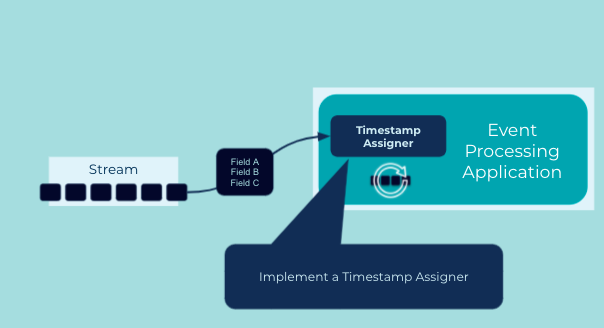
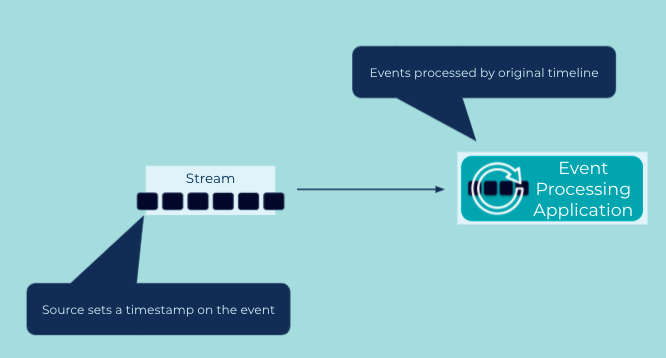
updates from review comments, updated illustration

diff --git a/docs/stream-processing/event-time-processing.md b/docs/stream-processing/event-time-processing.md
@@ -21,18 +21,35 @@ How do we implement event-time based processing of events?
 
 ![event-time-processing](../img/event-time-processing.png)
 
-For event-time processing, the [Event Source](../event-source/event-source.md) must include a timestamp in the event (e.g., in a data field or header metadata) that denotes the time at which the event was created by the source. Then, on the consuming side in an [Event Processing Application](../event-processing/event-processing-application.md), we need to implement a [Timestamp Assigner](timestamp-assigner.md) that will extract this timestamp from the event, which allows the application process events based on their original timeline.
+For event-time processing, the [Event Source](../event-source/event-source.md) must include a timestamp in the event (e.g., in a data field or header metadata) that denotes the time at which the event was created by the source. Then, on the consuming side in an [Event Processing Application](../event-processing/event-processing-application.md), we need to extract this timestamp from the event, which allows the application process events based on their original timeline.
 
 ## Implementation
+
+#### ksqlDB
 
 In the streaming database ksqlDB, every event/record has a system-column named `ROWTIME` representing the timestamp for the event, which defaults to the time at which the event was originally created by its [Event Source](../event-source/event-source.md). For example, when we create a ksqlDB `STREAM` or `TABLE` from an existing Kafka topic, then the timestamp embedded in a Kafka message is extracted and assigned to the event in ksqlDB. (cf. [CreateTime of a Kafka `ProducerRecord`](https://kafka.apache.org/28/javadoc/org/apache/kafka/clients/producer/ProducerRecord.html) and the [Kafka message format](http://kafka.apache.org/protocol.html)).
 
 Sometimes, this default behavior of ksqlDB is not what we want. Maybe the events have a custom data field containing their actual timestamps (e.g., some legacy data that has been around for a while was ingested into Kafka only recently, so we can't trust the `CreateTime` information in the Kafka messages because they are much newer than the original timestamps). To use a timestamp in the event payload itself, we can add a `WITH(TIMESTAMP='some-field')` clause when creating a stream or table, which instructs ksqlDB to then get the timestamp from the specified field in the record:
 
-```
+```sql
 CREATE STREAM my_event_stream
     WITH (kafka_topic='events',
           timestamp='eventTime');
+
+```
+
+#### Kafka Streams
+
+Kafka Streams provides the `TimestampExtractor` interface for extracting the timestamp from events.  The default implementation retrieves the timestamp set by Kafka.
+But for those cases where you need the timestamp from the event payload you can create your own `TimestampExtractor` implementation:
+
+```java
+class OrderTimestampExtractor implements TimestampExtractor {
+@Override
+public long extract(ConsumerRecord<Object, Object> record, long partitionTime) {
+    ElectronicOrder order = (ElectronicOrder)record.value();
+    return order.getTime();
+}
 
 ```
 
